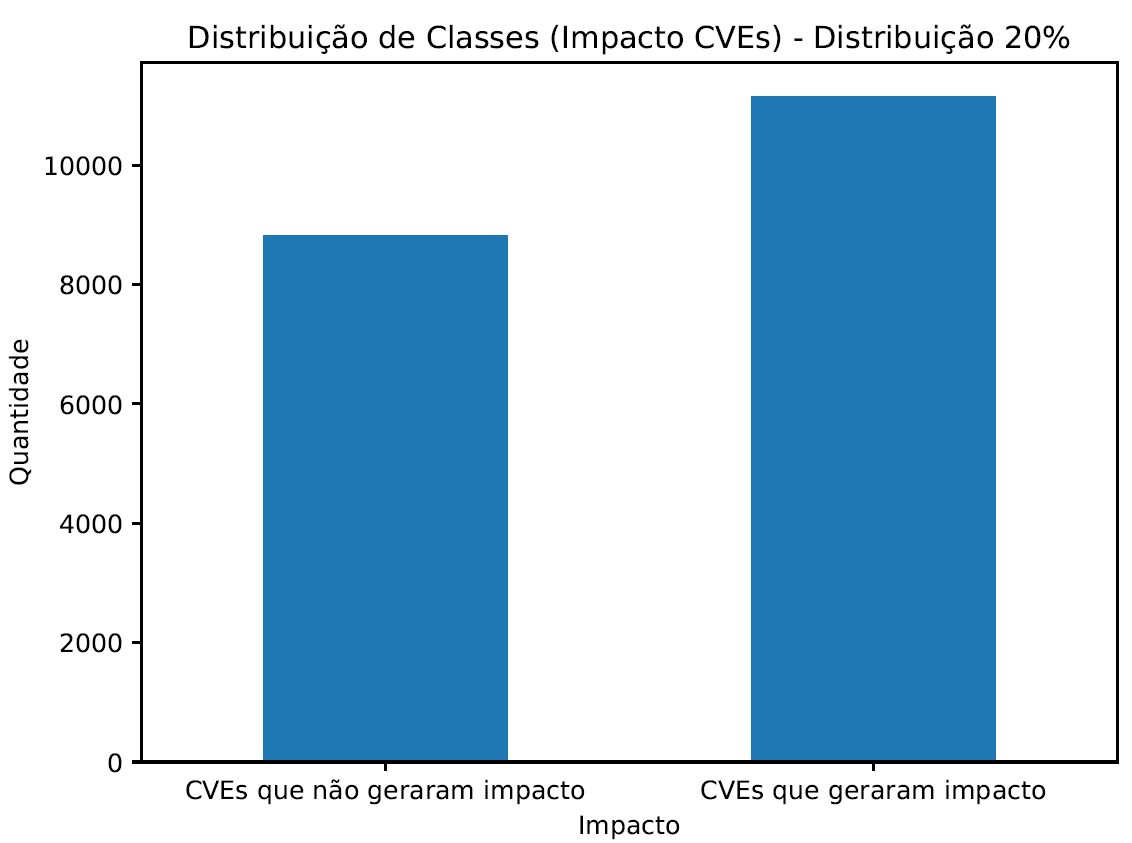
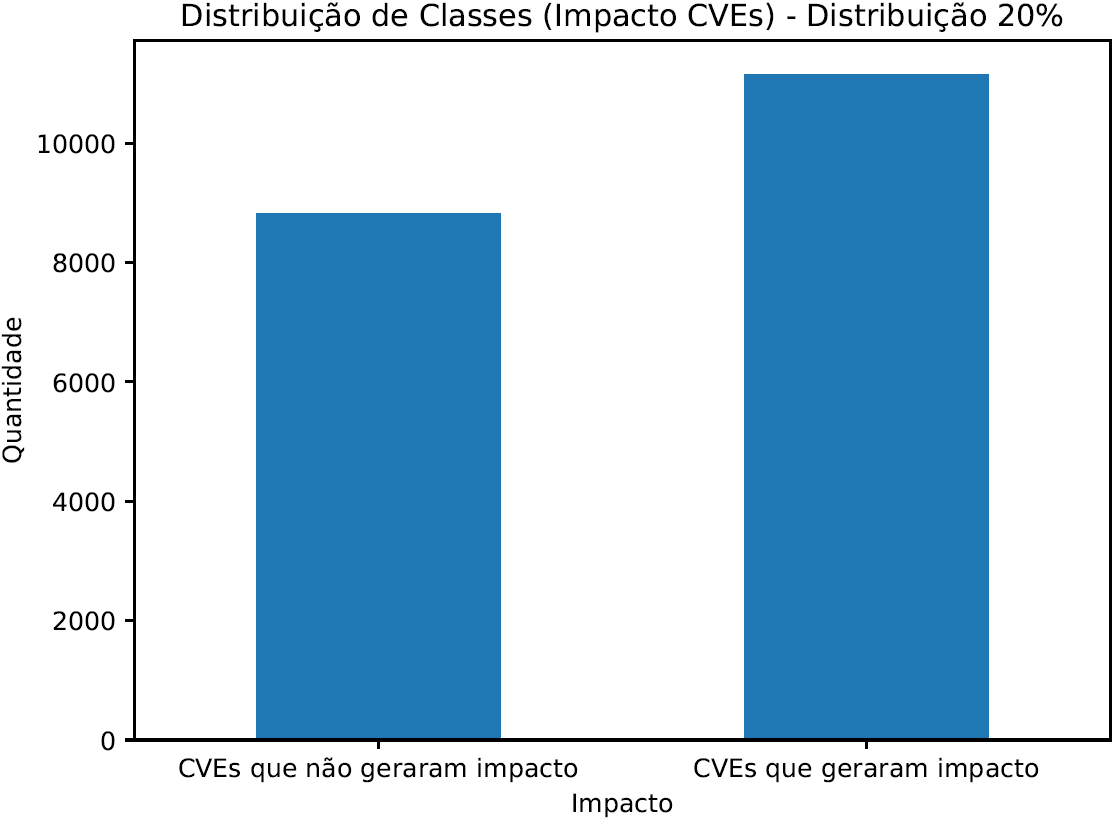
relatório final

Changed region(s): [[0.0, 0.0, 1.0, 0.978], [0.1525, 0.8863, 0.6099, 1.0], [0.2135, 0.2445, 0.4574, 0.3056]]

diff --git a/README.md b/README.md
@@ -177,8 +177,8 @@ Conforme saída do CSV de pré-processamento, foram criados dois gráficos com o
 A seguir são apresentados os gráficos de distribuição de classe das porções de 20% e 80%.
 
 <p float="left">
-	<img src="./Trabalho_Final/Gráfico_Dist_Classes/grafico_dist_20.png" width="400px" />
-	<img src="./Trabalho_Final/Gráfico_Dist_Classes/grafico_dist_80.png" width="400px" />
+	<img src="./Trabalho_Final/Gráfico_Dist_Classes/grafico_dist_20.png" width="500px" />
+	<img src="./Trabalho_Final/Gráfico_Dist_Classes/grafico_dist_80.png" width="500px" />
 <p/>
 
 <hr >
